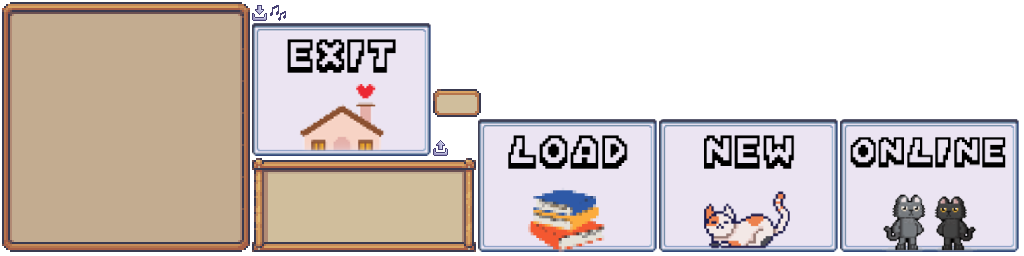
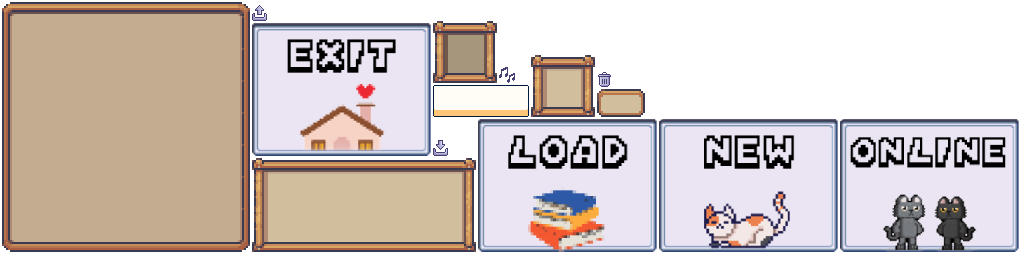
save

Changed region(s): [[0.4062, 0.0625, 0.6562, 0.4688], [0.4062, 0.5625, 0.4375, 0.5938], [0.25, 0.0312, 0.2812, 0.0625]]

diff --git a/core/src/com/mygdx/game/Game2D/Screens/MenuLoadGameScreen.java b/core/src/com/mygdx/game/Game2D/Screens/MenuLoadGameScreen.java
@@ -3,6 +3,7 @@ package com.mygdx.game.Game2D.Screens;
 
 import com.badlogic.gdx.Gdx;
 import com.badlogic.gdx.graphics.Texture;
+import com.badlogic.gdx.graphics.g2d.NinePatch;
 import com.badlogic.gdx.graphics.g2d.TextureRegion;
 import com.badlogic.gdx.scenes.scene2d.Actor;
 import com.badlogic.gdx.scenes.scene2d.InputEvent;
@@ -10,6 +11,7 @@ import com.badlogic.gdx.scenes.scene2d.Stage;
 import com.badlogic.gdx.scenes.scene2d.ui.*;
 import com.badlogic.gdx.scenes.scene2d.utils.ChangeListener;
 import com.badlogic.gdx.scenes.scene2d.utils.ClickListener;
+import com.badlogic.gdx.scenes.scene2d.utils.NinePatchDrawable;
 import com.badlogic.gdx.scenes.scene2d.utils.TextureRegionDrawable;
 import com.badlogic.gdx.utils.Array;
 import com.mygdx.game.Game2D.Entities.player.Player;
@@ -36,6 +38,8 @@ public class MenuLoadGameScreen extends BaseScreen {
     private Table selectedRow;
     private Table controlsTable = new Table();
     private Dialog confirmDeleteDialog = new Dialog("Confirm Delete", ResourceManager.skin);
+    Actor yesButton;
+    Actor noButton;
 
     public MenuLoadGameScreen(Game2D game, BaseScreen previousScreen, ResourceManager resourceManager) {
         super(game);
@@ -44,9 +48,7 @@ public class MenuLoadGameScreen extends BaseScreen {
 
         loadTable = createTable();
 
-        TextureRegionDrawable background = new TextureRegionDrawable(ResourceManager.getInstance().UI.findRegion("load_profiles_bg"));
         topTable = createTable();
-        topTable.setBackground(background);
 //        topTable.center();
 //        topTable.setFillParent(true);
 
@@ -67,6 +69,9 @@ public class MenuLoadGameScreen extends BaseScreen {
         handleCloudDownloadButton();
         handleLoadBackButton();
         createCloudAuthDialog();
+
+        confirmDeleteDialog.getContentTable().add(yesButton);
+        confirmDeleteDialog.getContentTable().add(noButton);
     }
 
     private void createProfileList() {
@@ -80,12 +85,24 @@ public class MenuLoadGameScreen extends BaseScreen {
 
     private void addProfileRow(String username) {
         Table row = new Table();
+        row.layout();
+        row.setWidth(500);
+        row.setDebug(true);
+        row.layout();
+
         row.setName(username);
 
+        float minWidth = 700;
+        row.setWidth(minWidth);
+
         Label usernameLabel = new Label(username, ResourceManager.skin);
+        usernameLabel.setWidth(minWidth * 0.7f);
         row.add(usernameLabel).left().expandX().fillX().pad(10);
 
-        TextButton deleteButton = new TextButton("Delete", ResourceManager.skin);
+        ImageButton deleteButton = ResourceManager.getInstance().createImageButton("delete_button", 2);
+        deleteButton.setWidth(minWidth * 0.3f);
+        createImageButton(deleteButton, row);
+
         row.add(deleteButton).right().pad(10);
 
         deleteButton.addListener(new ChangeListener() {
@@ -94,12 +111,10 @@ public class MenuLoadGameScreen extends BaseScreen {
                 confirmDeleteDialog.show(loadStage);
             }
         });
-
-
-        Actor yesButton = createButton("Yes");
+        yesButton = createButton("Yes");
         yesButton.addListener(new ClickListener() {
             @Override
-            public void clicked(InputEvent even, float x, float y) {
+            public void clicked(InputEvent event, float x, float y) {
                 Gdx.app.postRunnable(new Runnable() {
                     final boolean result = profileManager.deleteProfile(username);
                     @Override
@@ -117,29 +132,34 @@ public class MenuLoadGameScreen extends BaseScreen {
             }
         });
 
-        Actor noButton = createButton("No");
+        noButton = createButton("No");
         noButton.addListener(new ClickListener() {
             @Override
-            public void clicked(InputEvent even, float x, float y) {
+            public void clicked(InputEvent event, float x, float y) {
                 confirmDeleteDialog.hide();
             }
         });
-
-        confirmDeleteDialog.getContentTable().add(yesButton);
-        confirmDeleteDialog.getContentTable().add(noButton);
 
         row.addListener(new ClickListener() {
             @Override
             public void clicked(InputEvent event, float x, float y) {
                 if (selectedRow != null) {
-                    selectedRow.setBackground(ResourceManager.skin.getDrawable("default-round"));
+                    NinePatch ninePatch = new NinePatch(ResourceManager.getInstance().UI.findRegion("load_profiles_bg"));
+                    NinePatchDrawable backgroundDrawable = new NinePatchDrawable(ninePatch);
+                    selectedRow.setBackground(backgroundDrawable);
                 }
                 selectedRow = row;
-                selectedRow.setBackground(ResourceManager.skin.getDrawable("selection"));
+                NinePatch ninePatch = new NinePatch(ResourceManager.getInstance().UI.findRegion("load_profiles_selected_bg"));
+                NinePatchDrawable backgroundDrawable = new NinePatchDrawable(ninePatch);
+                selectedRow.setBackground(backgroundDrawable);
             }
         });
+        row.pad(10);
 
-        row.setBackground(ResourceManager.skin.getDrawable("default-round"));
+        NinePatch ninePatch = new NinePatch(ResourceManager.getInstance().UI.findRegion("load_profiles_bg"));
+        NinePatchDrawable backgroundDrawable = new NinePatchDrawable(ninePatch);
+        row.setBackground(backgroundDrawable);
+
         profileRows.add(row);
     }
 
@@ -147,6 +167,7 @@ public class MenuLoadGameScreen extends BaseScreen {
         topTable.clear();
         for (Actor row : profileRows) {
             topTable.add(row).row();
+            row.setSize(300, 60);
         }
     }
 

diff --git a/core/src/com/mygdx/game/Game2D/status/CurrentMusicDisplay.java b/core/src/com/mygdx/game/Game2D/status/CurrentMusicDisplay.java
@@ -22,7 +22,7 @@ public class CurrentMusicDisplay {
     private int defaultWidth;
     private int defaultHeight;
     private ScrollPane scrollPane;
-    private Table scrollTable;
+    private Table scrollTable = new Table();
     private String currentMusicTitle;
 
     public CurrentMusicDisplay() {
@@ -30,17 +30,16 @@ public class CurrentMusicDisplay {
         defaultWidth = 200;
         defaultHeight = 50;
 
-        TextureAtlas atlas = new TextureAtlas(Gdx.files.internal("atlas/UI/UI.atlas"));
-        NinePatch ninePatch = new NinePatch(atlas.findRegion("UI_Flat_Button_Large_Lock_01a1"));
+        NinePatch ninePatch = new NinePatch(ResourceManager.getInstance().UI.findRegion("UI_Flat_Button_Large_Lock_01a1"));
         NinePatchDrawable backgroundDrawable = new NinePatchDrawable(ninePatch);
 
-        NinePatch musicNotes = new NinePatch(ResourceManager.getInstance().UI.findRegion("music_notes"));
+        NinePatch musicNotes = new NinePatch(ResourceManager.getInstance().UI.findRegion("musicnotes"));
         NinePatchDrawable musicNotesDrawable = new NinePatchDrawable(musicNotes);
 
         Table mainTable = new Table();
         mainTable.pad(10);
         mainTable.left();
-//        mainTable.setBackground(backgroundDrawable);
+        mainTable.setBackground(backgroundDrawable);
 
         Image musicNotesImage = new Image(musicNotesDrawable);
 
@@ -68,7 +67,7 @@ public class CurrentMusicDisplay {
         mainTable.setSize(defaultWidth + 50, defaultHeight);
         stage.addActor(mainTable);
 
-        mainTable.setPosition(500, Gdx.graphics.getHeight() - mainTable.getHeight() - 10);
+        mainTable.setPosition(Gdx.graphics.getWidth() - mainTable.getWidth() - 10, 10);
     }
 
     public void startScrolling() {

diff --git a/core/src/com/mygdx/game/Game2D/Screens/PauseScreen.java b/core/src/com/mygdx/game/Game2D/Screens/PauseScreen.java
@@ -97,7 +97,9 @@ public class PauseScreen extends BaseScreen {
         saveButton.addListener(new ClickListener(){
             @Override
             public void clicked(InputEvent event, float x, float y) {
-                profileManager.saveProfile(player);
+                Gdx.app.postRunnable(() -> {
+                    profileManager.saveProfile(player);
+                });
             }
         });
 
